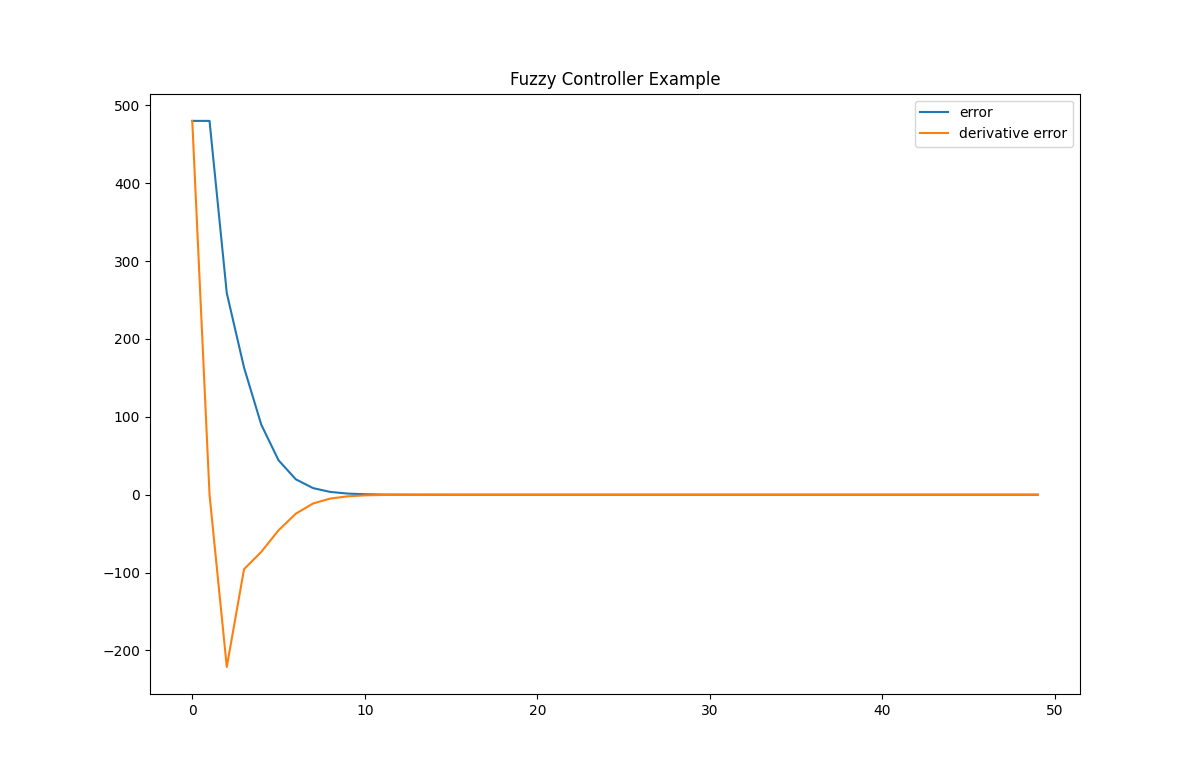
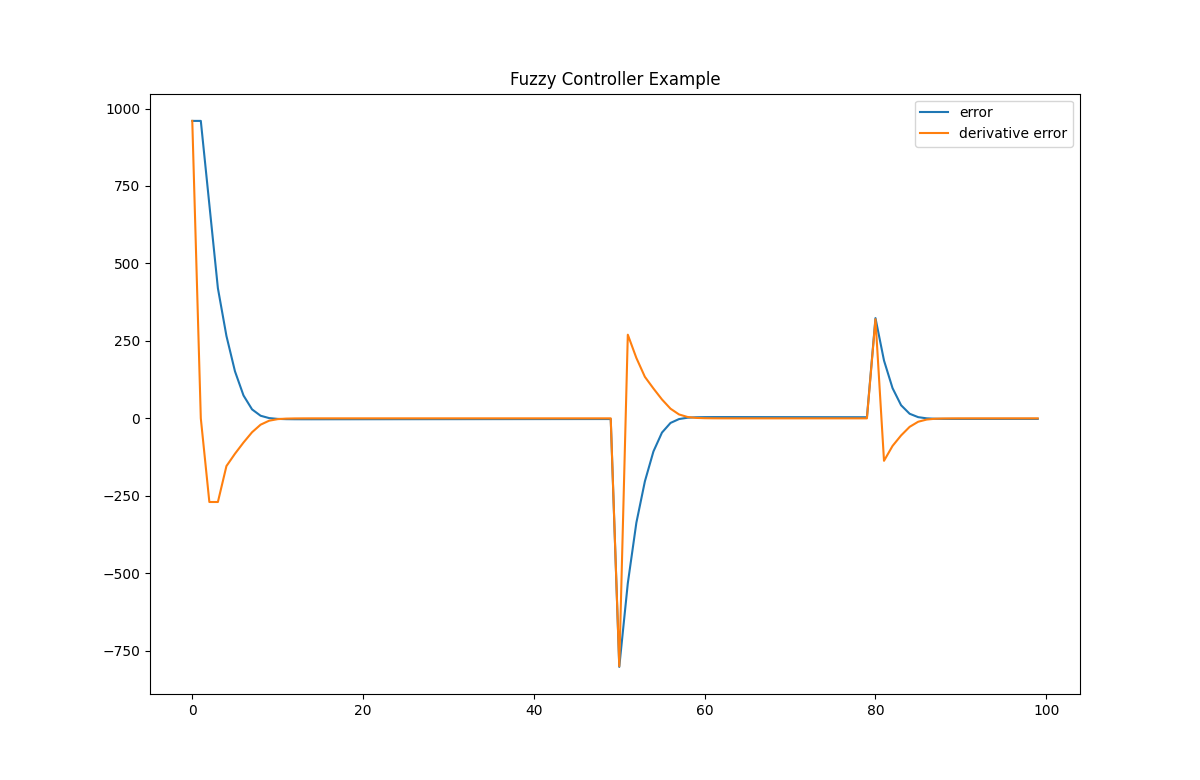
feat: :zap: Enhance controller performance
Add parallel integrator and integral saturation rejection module

diff --git a/src/FuzzyControl.cpp b/src/FuzzyControl.cpp
@@ -21,10 +21,15 @@ namespace fc {
         m_err      = m_goal - m_curr;
         m_err_last = 0;
         m_err_dev  = m_err - m_err_last;
+        m_err_int  = 0;
+        m_fb_u     = 0;
 
         Kp_e      = (N/2)/m_err_max;
         Kd_e      = (N/2)/m_err_dev_max;
         Kp_u      = m_u_max/(N/2);
+        // default PD system
+        K_sat    = 0;
+        Ki_e     = 0;
 
         m_memFunc  = std::make_shared<fc::Membership>();
     }
@@ -51,16 +56,18 @@ namespace fc {
         }
 
         scalar u;
+        scalar u_sat; // saturated output u
 
-        m_err     = m_goal - m_curr;
-        m_err_dev = m_err - m_err_last;
+        m_err      = m_goal - m_curr;
+        m_err_dev  = m_err - m_err_last;
 
-        m_err     = Kp_e * m_err;
-        m_err_dev = Kd_e * m_err_dev;
+        m_err      = Kp_e * m_err;
+        m_err_dev  = Kd_e * m_err_dev;
+        m_err_int += Ki_e * m_err - m_fb_u;
 
         // input limitation
-        m_err     = m_err > m_err_max ? m_err_max : (m_err < -m_err_max ? -m_err_max : m_err);
-        m_err_dev = m_err_dev > m_err_dev_max ? m_err_dev_max : (m_err_dev < -m_err_dev_max ? -m_err_dev_max : m_err_dev);
+        m_err      = m_err > m_err_max ? m_err_max : (m_err < -m_err_max ? -m_err_max : m_err);
+        m_err_dev  = m_err_dev > m_err_dev_max ? m_err_dev_max : (m_err_dev < -m_err_dev_max ? -m_err_dev_max : m_err_dev);
 
 
         // printf("Kp_e=%f, Kd_e=%f, Kp_u=%f\n", Kp_e, Kd_e, Kp_u);
@@ -76,14 +83,17 @@ namespace fc {
 
         u = (err_pack.first + err_dev_pack.first) / (err_pack.second + err_dev_pack.second);
 
-        u = Kp_u * u;
+        u = Kp_u * u + m_err_int;
+        u_sat = u;
 
-        if (u > m_u_max)  u = m_u_max;
-        if (u < -m_u_max) u = -m_u_max;
+        if (u_sat > m_u_max) u_sat = m_u_max;
+        if (u_sat < -m_u_max) u_sat = -m_u_max;
 
+        // update last error and feedback u that prevents saturating integration
+        m_fb_u = (u - u_sat) * K_sat;
         m_err_last = m_err;
 
-        return u;
+        return u_sat;
     }
 
     scalar FuzzyController::algo(scalar goal, scalar curr) {
@@ -242,10 +252,12 @@ namespace fc {
         this->m_u_param = u_param;
     }
 
-    void FuzzyController::setParam_K(scalar Kp_e, scalar Kd_e, scalar Kp_u) {
-        this->Kp_e = Kp_e;
-        this->Kd_e = Kd_e;
-        this->Kp_u = Kp_u;
+    void FuzzyController::setParam_K(scalar Kp_e, scalar Kd_e, scalar Kp_u, scalar Ki_e, scalar K_sat) {
+        this->Ki_e  = Ki_e;
+        this->Kp_e  = Kp_e;
+        this->Kd_e  = Kd_e;
+        this->Kp_u  = Kp_u;
+        this->K_sat = K_sat;
     }
 
 
@@ -253,11 +265,10 @@ namespace fc {
         std::cout << ANSI_COLOR_BLUE << 
         "------------ Information of fuzzy logic controller ------------" 
         << ANSI_COLOR_RESET << std::endl;
-        
         printf("Universal discourse [err]: [%f, %f]\n", -this->m_err_max, this->m_err_max);
         printf("Universal discourse [err_dev]: [%f, %f]\n", -this->m_err_dev_max, this->m_err_dev_max);
         printf("Universal discourse [u]: [%f, %f]\n", -this->m_u_max, this->m_u_max);
-        printf("Kp_e=%f, Kd_e=%f, Kp_u=%f\n", this->Kp_e, this->Kd_e, this->Kp_u);
+        printf("Kp_e=%f, Ki_e=%f, Kd_e=%f, Kp_u=%f, K_sat=%f\n", this->Kp_e,this->Ki_e, this->Kd_e, this->Kp_u, this->K_sat);
     }
 
 }

diff --git a/src/example.cpp b/src/example.cpp
@@ -8,13 +8,18 @@ namespace plt = matplotlibcpp;
 
 
 int main (int argc,char *argv[]) {
-    fc::scalar goal = 480;
+    fc::scalar goal = 960;
     fc::scalar curr = 0;
     fc::scalar u    = 0;
 
    constexpr fc::scalar eNB  = -640, eNM  = -400, eNS  = -210, eZO  = 0, ePS  = 210, ePM  = 400, ePB  = 640;
-   constexpr fc::scalar deNB = -320, deNM = -200, deNS = -105, deZO = 0, dePS = 105, dePM = 200, dePB = 320;
-   constexpr fc::scalar uNB  = -180, uNM  = -120, uNS  = -60,  uZO  = 0, uPS  = 60,  uPM  = 120, uPB  = 180; 
+   constexpr fc::scalar deNB = -640, deNM = -400, deNS = -210, deZO = 0, dePS = 210, dePM = 400, dePB = 640;
+   constexpr fc::scalar uNB  = -180, uNM  = -120, uNS  = -60,  uZO  = 0, uPS  = 60,  uPM  = 120, uPB  = 180;
+
+//    constexpr fc::scalar eNB  = -640, eNM  = -260, eNS  = -70, eZO  = 0, ePS  = 70, ePM  = 260, ePB  = 640;
+//    constexpr fc::scalar deNB = -640, deNM = -260, deNS = -70, deZO = 0, dePS = 70, dePM = 260, dePB = 640;
+//    constexpr fc::scalar uNB  = -180, uNM  = -120, uNS  = -60,  uZO  = 0, uPS  = 60,  uPM  = 120, uPB  = 180; 
+
 
     int8_t ruleMatrix[7][7]={{NB,NB,NM,NM,NS,ZO,ZO},
                             {NB,NB,NM,NS,NS,ZO,PS},
@@ -34,7 +39,7 @@ int main (int argc,char *argv[]) {
     // std::vector<fc::scalar> de_mf_paras {-3,-3,-2,-3,-2,-1,-2,-1,0,-1,0,1,0,1,2,1,2,3,2,3,3};
     // std::vector<fc::scalar> u_mf_paras {-9,-9,-4,-9,-4,-1,-4,-1,0,-1,0,1,0,1,4,1,4,9,4,9,9};
 
-    fc::FuzzyController* fzc = new fc::FuzzyController(640,320,180);
+    fc::FuzzyController* fzc = new fc::FuzzyController(640,640,180);
 
     fzc->setMembershipType_err(fc::membershipType::Triangle);
     fzc->setMembershipType_err_dev(fc::membershipType::Triangle);
@@ -46,10 +51,10 @@ int main (int argc,char *argv[]) {
 
     fzc->setFuzzyRule(ruleMatrix);
     fzc->setResolution(100);
-    fzc->setParam_K(0.5, 0.1, 3.0);
+    fzc->setParam_K(0.4, 0.05, 4.0, 0.01, 0.1);
     fzc->showInfo();
 
-    uint8_t iter_max = 50; 
+    uint8_t iter_max = 100; 
     std::vector<fc::scalar> epoch(iter_max), err(iter_max), err_dev(iter_max);
 
     epoch.at(0)         = 0;
@@ -57,6 +62,13 @@ int main (int argc,char *argv[]) {
     err_dev.at(0)       = err.at(0);
 
     for(int i = 1; i < iter_max; i++) {
+        if (i >= 50) {
+            goal = 160;
+        } 
+        
+        if (i >= 80) {
+            goal = 480;
+        }
         epoch.at(i) = i;
         err.at(i) = goal - curr;
         err_dev.at(i) = err.at(i) - err.at(i-1);

diff --git a/include/FuzzyControl.h b/include/FuzzyControl.h
@@ -74,7 +74,7 @@ namespace fc {
 
             void setCurrent(scalar curr);
             
-            void setParam_K(scalar Kp_e, scalar Kd_e, scalar Kp_u);
+            void setParam_K(scalar Kp_e, scalar Kd_e, scalar Kp_u, scalar Ki_e, scalar K_sat);
 
             void showInfo();
 
@@ -136,18 +136,22 @@ namespace fc {
         private:
             scalar m_err;
             scalar m_err_last;
-            scalar m_err_dev;
+            scalar m_err_dev; // derivative e
+            scalar m_err_int; // integration e
+            scalar m_fb_u; // feedback delta u that prevents saturating integration 
 
             scalar m_err_max;
-            scalar m_err_dev_max; // derivative error
+            scalar m_err_dev_max;
             scalar m_u_max; // output maximum limitation
 
             scalar m_goal;
             scalar m_curr;
-            
+
+            scalar Ki_e;
             scalar Kp_e;
             scalar Kd_e;
             scalar Kp_u;
+            scalar K_sat;
 
              // This parameters are consistant in membership functions' input parameters times N
             std::vector<scalar> m_err_param;

diff --git a/README.md b/README.md
@@ -1,14 +1,15 @@
-# :rocket:`ZJUER:` Basic Fuzzy Logic Controller
+# :rocket:`ZJUER:` A fuzzy controller with mixed integral and integral saturation rejection module
 
-Realize the basic function of fuzzy logic controller. User can select _Triangle_, _Rectangle_, _Trapezoid_, _Gaussian_ membership functions to do fuzzification. _Centroid (COG)_ method is used to defuzzification.
+Realize the basic function of fuzzy logic controller. User can select _Triangle_, _Rectangle_, _Trapezoid_, _Gaussian_ membership functions to do fuzzification. _Centroid (COG)_ method is used to defuzzification. To enhance the performance of this controller, mix the fuzzy controller with a parallel integrator and add a module to prevent integral saturation.
 
 ## Schedule
 - [x] The main body of the program is completed
 - [x] Bugs have been fixed
 - [x] Add an example. Visualization uses`matplotlib-cpp` wrapper. [lava/matplotlib-cpp](https://github.com/lava/matplotlib-cpp) provides this support
-- [ ] Interface and logic optimization
-- [ ] Protection checker
-- [ ] `README.md` update
+- [x] Interface and logic optimization
+- [x] Protection checker
+- [x] `README.md` update
+- [x] Add integral and integral saturation rejection module
 
 ## Example Usage
 Compile the project once you download this repository.
@@ -24,10 +25,10 @@ After you run the executable file, the following result will show on terminal an
 
 ```shell {.line-numbers}
 ------------ Information of fuzzy logic controller ------------
-Universal discourse [err]: [-100.000000, 100.000000]  
-Universal discourse [err_dev]: [-65.000000, 65.000000]
-Universal discourse [u]: [-50.000000, 50.000000]
-Kp_e=0.030000, Kd_e=0.046154, Kp_u=16.666667
+Universal discourse [err]: [-640.000000, 640.000000]
+Universal discourse [err_dev]: [-640.000000, 640.000000]
+Universal discourse [u]: [-180.000000, 180.000000]
+Kp_e=0.400000, Ki_e=0.010000, Kd_e=0.050000, Kp_u=4.000000, K_sat=0.100000
 ```
 ![example](share/example.png)
 ## Fuzzy Logic Control Basic Concept
@@ -36,9 +37,15 @@ Fuzzy logic controller is composed of the following four elements:
 2. *An inference mechanism* (also called an “inference engine” or “fuzzy inference” module), which emulates the expert’s decision making in interpreting and applying knowledge about how best to control the plant.
 3. *A fuzzification interface*, which converts controller inputs into information that the inference mechanism can easily use to activate and apply rules.
 4. *A defuzzification interface*, which converts the conclusions of the inference mechanism into actual inputs for the process.
-
-
 ![fzc-architecture](share/fzc-architecture.png)
+
+## Modified Fuzzy Logic Controller
+
+- Add a parallel integrator to eliminate steady-state error.
+- Compare the clamped output $u_s$ with the original output $u$. This feedback value will be sent to integrator input channel to prevent integral saturation.
+
+![fzc-modified](share/fuzzy-controller-modified.png)
+
 
 ## LICENSE
 Apache License Version 2.0
